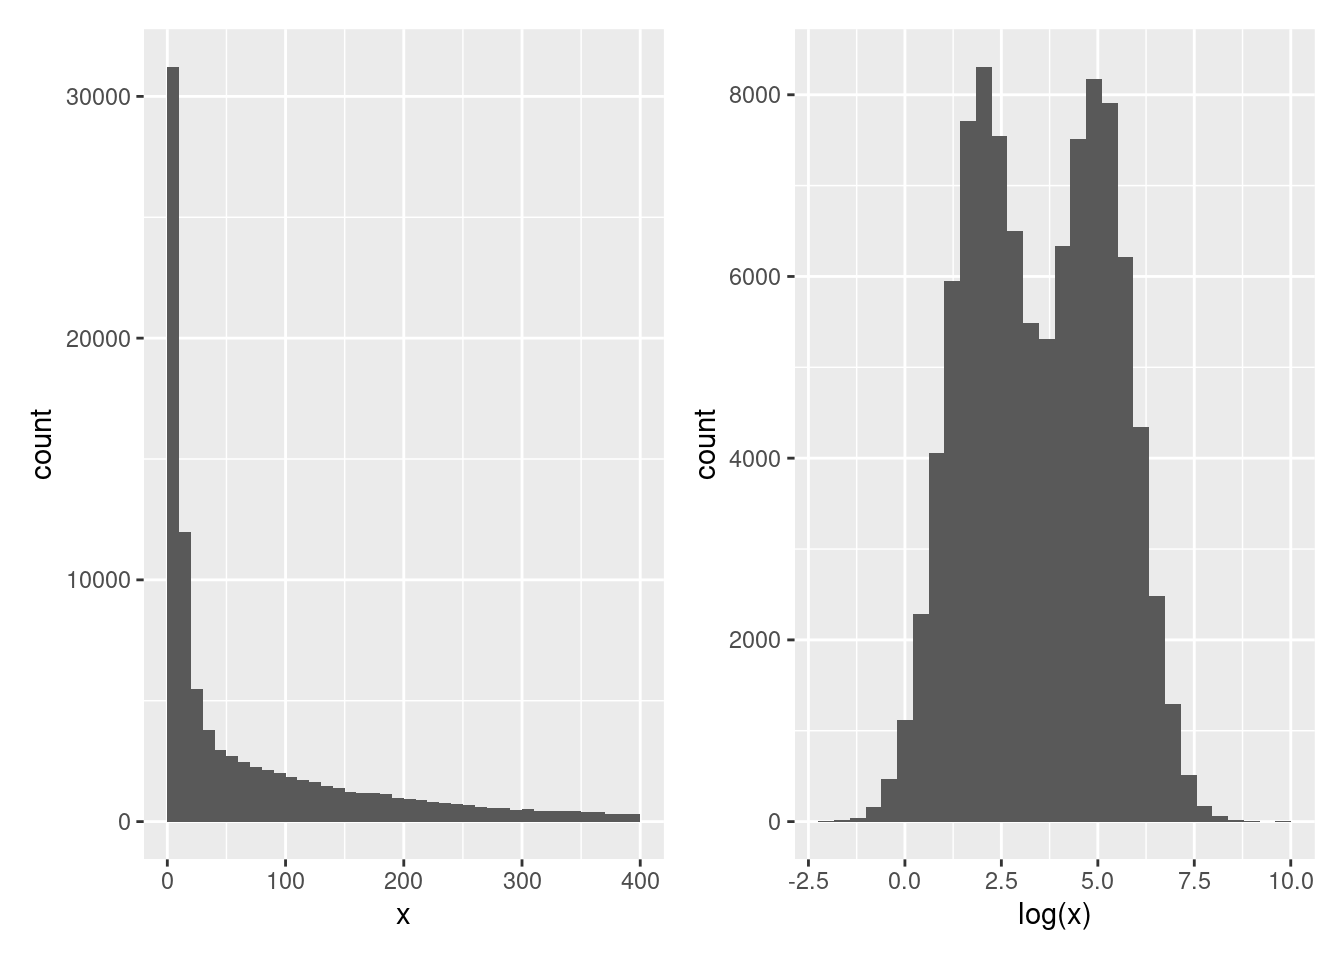
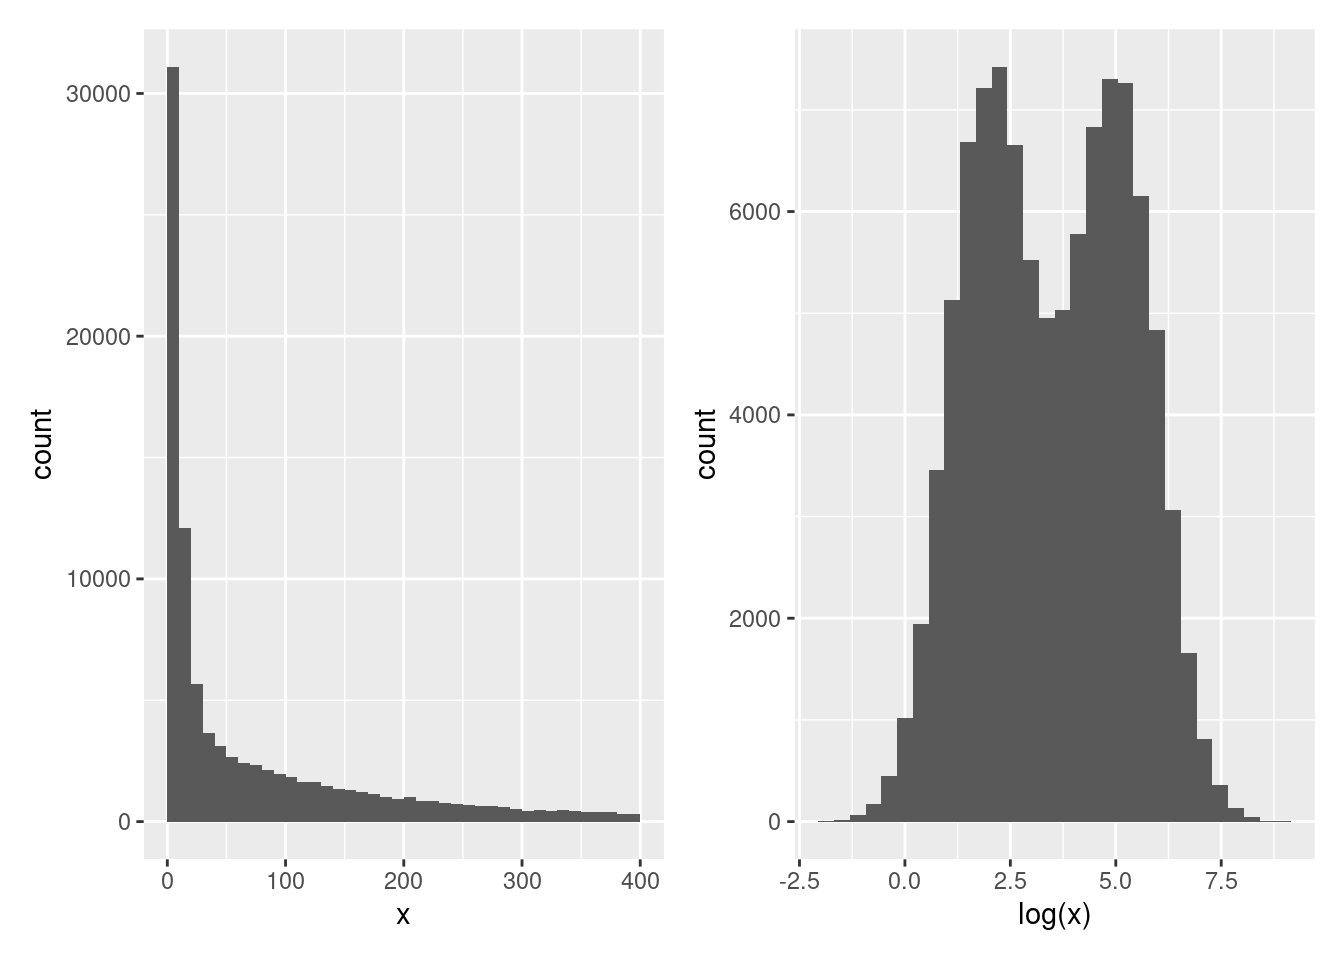
fix din dozen data link

diff --git a/docs/sec-vis.html b/docs/sec-vis.html
@@ -13,7 +13,7 @@
 
 <meta name="author" content="Laurent Gatto" />
 
-<meta name="date" content="2023-09-25" />
+<meta name="date" content="2023-10-02" />
 
 <script type="text/x-mathjax-config">
 MathJax.Hub.Config({
@@ -401,7 +401,7 @@ is to highlight the fundamental differences in the datasets.</p>
 <p><img src="WSBIM1322_files/figure-html/anscombefig-1.png" width="672"></p>
 <p>See also another, more recent example:
 <a href="https://www.autodeskresearch.com/publications/samestats">The Datasaurus Dozen dataset</a>.</p>
-<p><img src="https://d2f99xq7vri1nk.cloudfront.net/DinoSequentialSmaller.gif"></p>
+<p><img src="https://www.research.autodesk.com/app/uploads/2023/03/AllDinos-2.png"></p>
 <p>Throughout this course we will focus on producing visualisations that
 will enable <strong>understanding important features</strong> of biomolecular data
 or the effect of their transformation and analyses. With this in mind,
@@ -895,7 +895,7 @@ of the data.</p>
 <span id="cb37-9"><a href="sec-vis.html#cb37-9" aria-hidden="true"></a>p2 &lt;-<span class="st">  </span><span class="kw">ggplot</span>(sim, <span class="kw">aes</span>(<span class="kw">log</span>(x))) <span class="op">+</span></span>
 <span id="cb37-10"><a href="sec-vis.html#cb37-10" aria-hidden="true"></a><span class="st">    </span><span class="kw">geom_histogram</span>(<span class="dt">bins =</span> <span class="dv">30</span>)</span>
 <span id="cb37-11"><a href="sec-vis.html#cb37-11" aria-hidden="true"></a>p1 <span class="op">+</span><span class="st"> </span>p2</span></code></pre></div>
-<pre><code>## Warning: Removed 8080 rows containing non-finite values (`stat_bin()`).</code></pre>
+<pre><code>## Warning: Removed 8088 rows containing non-finite values (`stat_bin()`).</code></pre>
 <div class="figure">
 <span style="display:block;" id="fig:sim"></span>
 <p class="caption marginnote shownote">
@@ -1140,7 +1140,7 @@ otherwise. Below are some example outputs.</p>
 <a href="sec-obj.html"><button class="btn btn-default">Next</button></a>
 </p>
 <p class="build-date">Page built: 
-2023-09-25
+2023-10-02
  using 
 R version 4.3.1 (2023-06-16)
 </p>

diff --git a/docs/sec-si.html b/docs/sec-si.html
@@ -13,7 +13,7 @@
 
 <meta name="author" content="Laurent Gatto" />
 
-<meta name="date" content="2023-09-25" />
+<meta name="date" content="2023-10-02" />
 
 <script type="text/x-mathjax-config">
 MathJax.Hub.Config({
@@ -226,7 +226,7 @@ code span.wa { color: #60a0b0; font-weight: bold; font-style: italic; } /* Warni
 ## [37] matrixStats_1.0.0                     BiocStyle_2.28.1                     
 ## [39] lattice_0.21-8                        patchwork_1.1.3                      
 ## [41] ggbeeswarm_0.7.2                      plotly_4.10.2                        
-## [43] Hmisc_5.1-1                           lubridate_1.9.2                      
+## [43] Hmisc_5.1-1                           lubridate_1.9.3                      
 ## [45] forcats_1.0.0                         stringr_1.5.0                        
 ## [47] dplyr_1.1.3                           purrr_1.0.2                          
 ## [49] readr_2.1.4                           tidyr_1.3.0                          
@@ -238,7 +238,7 @@ code span.wa { color: #60a0b0; font-weight: bold; font-style: italic; } /* Warni
 ##   [4] RColorBrewer_1.1-3    doParallel_1.0.17     tools_4.3.1          
 ##   [7] backports_1.4.1       utf8_1.2.3            R6_2.5.1             
 ##  [10] lazyeval_0.2.2        mgcv_1.9-0            GetoptLong_1.0.5     
-##  [13] withr_2.5.0           prettyunits_1.1.1     gridExtra_2.3        
+##  [13] withr_2.5.1           prettyunits_1.2.0     gridExtra_2.3        
 ##  [16] preprocessCore_1.62.1 cli_3.6.1.9000        Cairo_1.6-1          
 ##  [19] isoband_0.2.7         labeling_0.4.3        sass_0.4.7           
 ##  [22] mvtnorm_1.2-3         randomForest_4.7-1.1  proxy_0.4-27         
@@ -298,7 +298,7 @@ the following code:</p>
 <a href="sec-ccl.html"><button class="btn btn-default">Previous</button></a>
 </p>
 <p class="build-date">Page built: 
-2023-09-25
+2023-10-02
  using 
 R version 4.3.1 (2023-06-16)
 </p>

diff --git a/docs/index.html b/docs/index.html
@@ -13,7 +13,7 @@
 
 <meta name="author" content="Laurent Gatto" />
 
-<meta name="date" content="2023-09-25" />
+<meta name="date" content="2023-10-02" />
 
 <script type="text/x-mathjax-config">
 MathJax.Hub.Config({
@@ -334,7 +334,7 @@ style</a> <span class="citation">(<span class="citeproc-not-found" data-referenc
 <a href="sec-refresher.html"><button class="btn btn-default">Next</button></a>
 </p>
 <p class="build-date">Page built: 
-2023-09-25
+2023-10-02
  using 
 R version 4.3.1 (2023-06-16)
 </p>

diff --git a/docs/sec-sl.html b/docs/sec-sl.html
@@ -13,7 +13,7 @@
 
 <meta name="author" content="Laurent Gatto" />
 
-<meta name="date" content="2023-09-25" />
+<meta name="date" content="2023-10-02" />
 
 <script type="text/x-mathjax-config">
 MathJax.Hub.Config({
@@ -1028,7 +1028,7 @@ most reliable assignments one, and setting the unreliable ones to
 <a href="sec-biovis.html"><button class="btn btn-default">Next</button></a>
 </p>
 <p class="build-date">Page built: 
-2023-09-25
+2023-10-02
  using 
 R version 4.3.1 (2023-06-16)
 </p>

diff --git a/docs/sec-norm.html b/docs/sec-norm.html
@@ -13,7 +13,7 @@
 
 <meta name="author" content="Laurent Gatto" />
 
-<meta name="date" content="2023-09-25" />
+<meta name="date" content="2023-10-02" />
 
 <script type="text/x-mathjax-config">
 MathJax.Hub.Config({
@@ -737,7 +737,7 @@ samples distributions at each step. Interpret what you see.</p>
 <a href="sec-mlintro.html"><button class="btn btn-default">Next</button></a>
 </p>
 <p class="build-date">Page built: 
-2023-09-25
+2023-10-02
  using 
 R version 4.3.1 (2023-06-16)
 </p>

diff --git a/docs/sec-biovis.html b/docs/sec-biovis.html
@@ -13,7 +13,7 @@
 
 <meta name="author" content="Laurent Gatto" />
 
-<meta name="date" content="2023-09-25" />
+<meta name="date" content="2023-10-02" />
 
 <script type="text/x-mathjax-config">
 MathJax.Hub.Config({
@@ -465,7 +465,7 @@ number of intersections (default is 40) become useful.</p>
 <a href="sec-ccl.html"><button class="btn btn-default">Next</button></a>
 </p>
 <p class="build-date">Page built: 
-2023-09-25
+2023-10-02
  using 
 R version 4.3.1 (2023-06-16)
 </p>

diff --git a/docs/sec-ccl.html b/docs/sec-ccl.html
@@ -13,7 +13,7 @@
 
 <meta name="author" content="Laurent Gatto" />
 
-<meta name="date" content="2023-09-25" />
+<meta name="date" content="2023-10-02" />
 
 <script type="text/x-mathjax-config">
 MathJax.Hub.Config({
@@ -489,7 +489,7 @@ effect of that outlier of the differential analysis.</li>
 <a href="sec-si.html"><button class="btn btn-default">Next</button></a>
 </p>
 <p class="build-date">Page built: 
-2023-09-25
+2023-10-02
  using 
 R version 4.3.1 (2023-06-16)
 </p>

diff --git a/docs/sec-obj.html b/docs/sec-obj.html
@@ -13,7 +13,7 @@
 
 <meta name="author" content="Laurent Gatto" />
 
-<meta name="date" content="2023-09-25" />
+<meta name="date" content="2023-10-02" />
 
 <script type="text/x-mathjax-config">
 MathJax.Hub.Config({
@@ -1007,7 +1007,7 @@ of class <code>SummarizedExperiment</code>.</p>
 <a href="sec-biostrings.html"><button class="btn btn-default">Next</button></a>
 </p>
 <p class="build-date">Page built: 
-2023-09-25
+2023-10-02
  using 
 R version 4.3.1 (2023-06-16)
 </p>

diff --git a/docs/sec-mlintro.html b/docs/sec-mlintro.html
@@ -13,7 +13,7 @@
 
 <meta name="author" content="Laurent Gatto" />
 
-<meta name="date" content="2023-09-25" />
+<meta name="date" content="2023-10-02" />
 
 <script type="text/x-mathjax-config">
 MathJax.Hub.Config({
@@ -736,7 +736,7 @@ but these are beyond the scope of this course.</p>
 <a href="sec-testing.html"><button class="btn btn-default">Next</button></a>
 </p>
 <p class="build-date">Page built: 
-2023-09-25
+2023-10-02
  using 
 R version 4.3.1 (2023-06-16)
 </p>

diff --git a/docs/sec-ul.html b/docs/sec-ul.html
@@ -13,7 +13,7 @@
 
 <meta name="author" content="Laurent Gatto" />
 
-<meta name="date" content="2023-09-25" />
+<meta name="date" content="2023-10-02" />
 
 <script type="text/x-mathjax-config">
 MathJax.Hub.Config({
@@ -974,7 +974,7 @@ average marker profiles, such as shown below.</p></li>
 <a href="sec-sl.html"><button class="btn btn-default">Next</button></a>
 </p>
 <p class="build-date">Page built: 
-2023-09-25
+2023-10-02
  using 
 R version 4.3.1 (2023-06-16)
 </p>

diff --git a/docs/sec-refresher.html b/docs/sec-refresher.html
@@ -13,7 +13,7 @@
 
 <meta name="author" content="Laurent Gatto" />
 
-<meta name="date" content="2023-09-25" />
+<meta name="date" content="2023-10-02" />
 
 <script type="text/x-mathjax-config">
 MathJax.Hub.Config({
@@ -347,7 +347,7 @@ state it explicitly in your response.</p>
 <a href="sec-vis.html"><button class="btn btn-default">Next</button></a>
 </p>
 <p class="build-date">Page built: 
-2023-09-25
+2023-10-02
  using 
 R version 4.3.1 (2023-06-16)
 </p>

diff --git a/docs/sec-testing.html b/docs/sec-testing.html
@@ -13,7 +13,7 @@
 
 <meta name="author" content="Laurent Gatto" />
 
-<meta name="date" content="2023-09-25" />
+<meta name="date" content="2023-10-02" />
 
 <script type="text/x-mathjax-config">
 MathJax.Hub.Config({
@@ -1107,7 +1107,7 @@ conclusion now?</li>
 <a href="sec-dimred.html"><button class="btn btn-default">Next</button></a>
 </p>
 <p class="build-date">Page built: 
-2023-09-25
+2023-10-02
  using 
 R version 4.3.1 (2023-06-16)
 </p>
